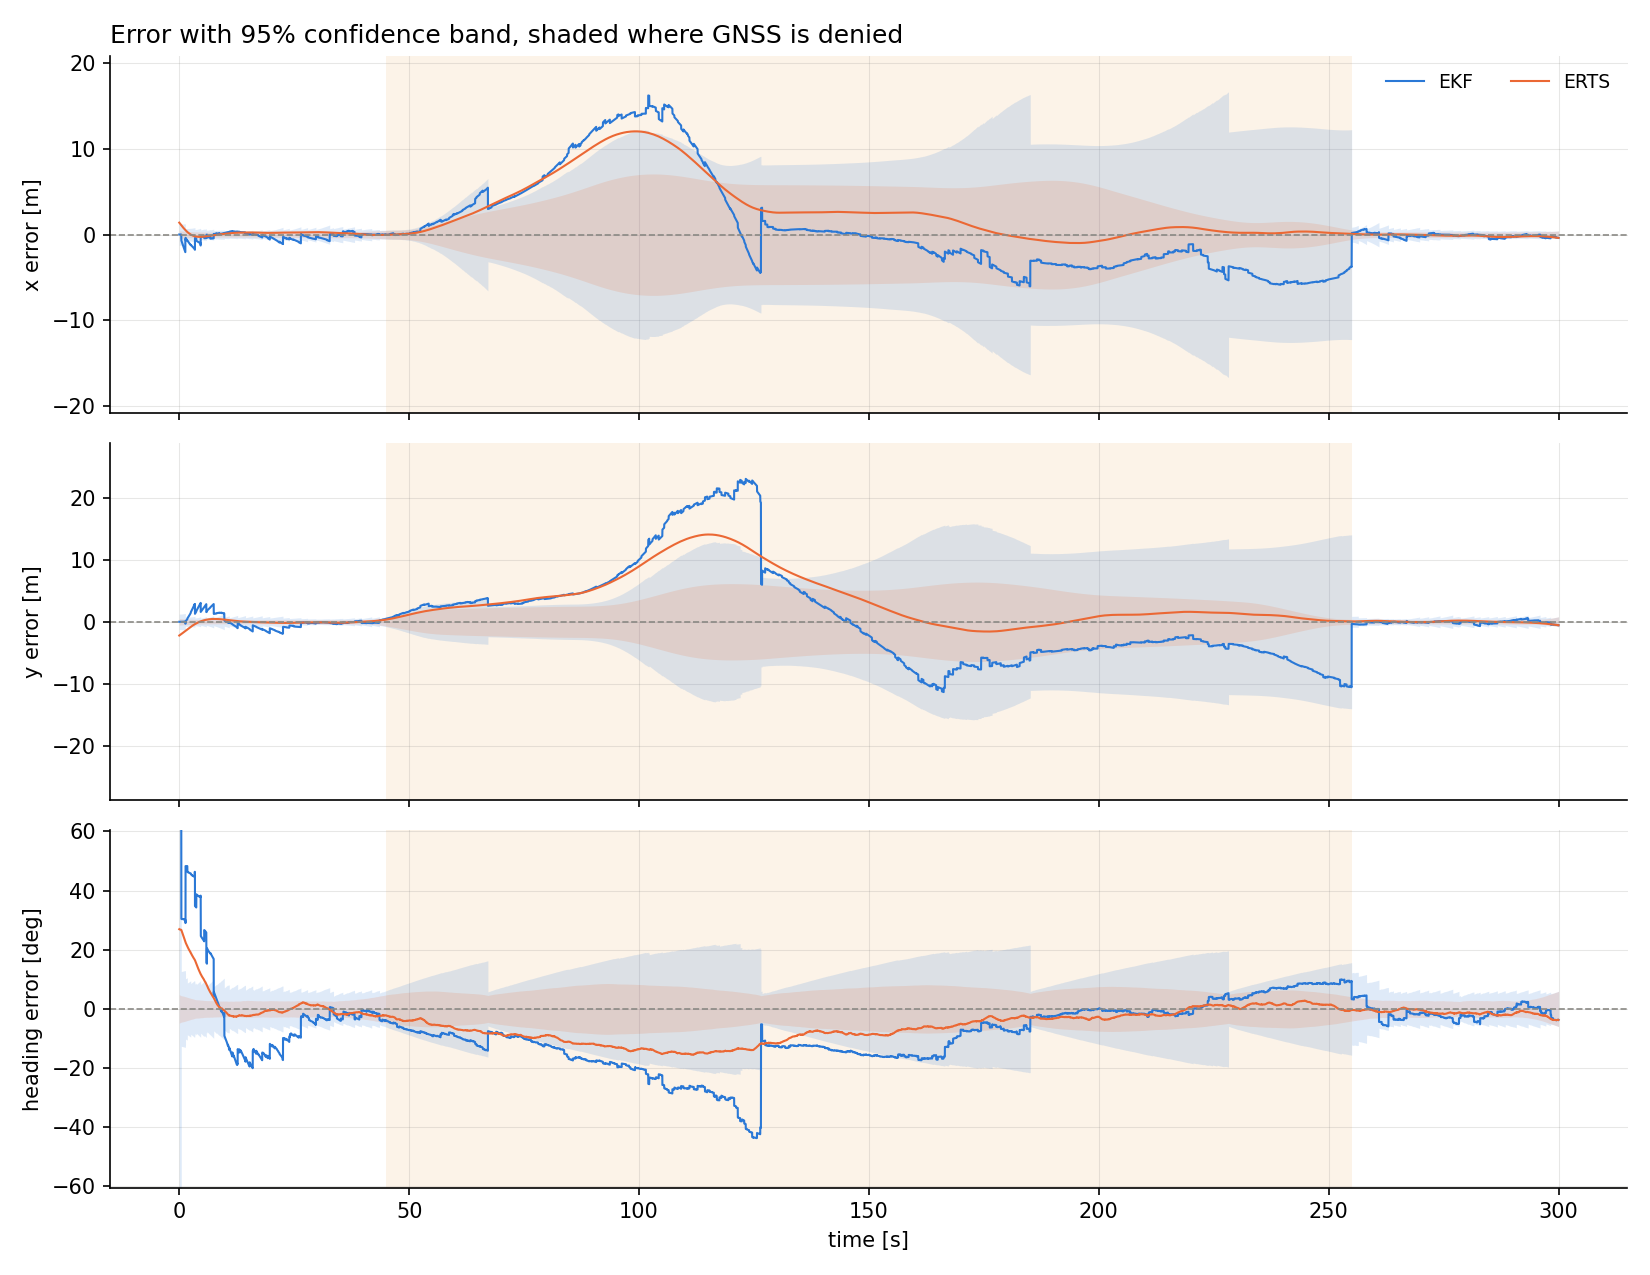
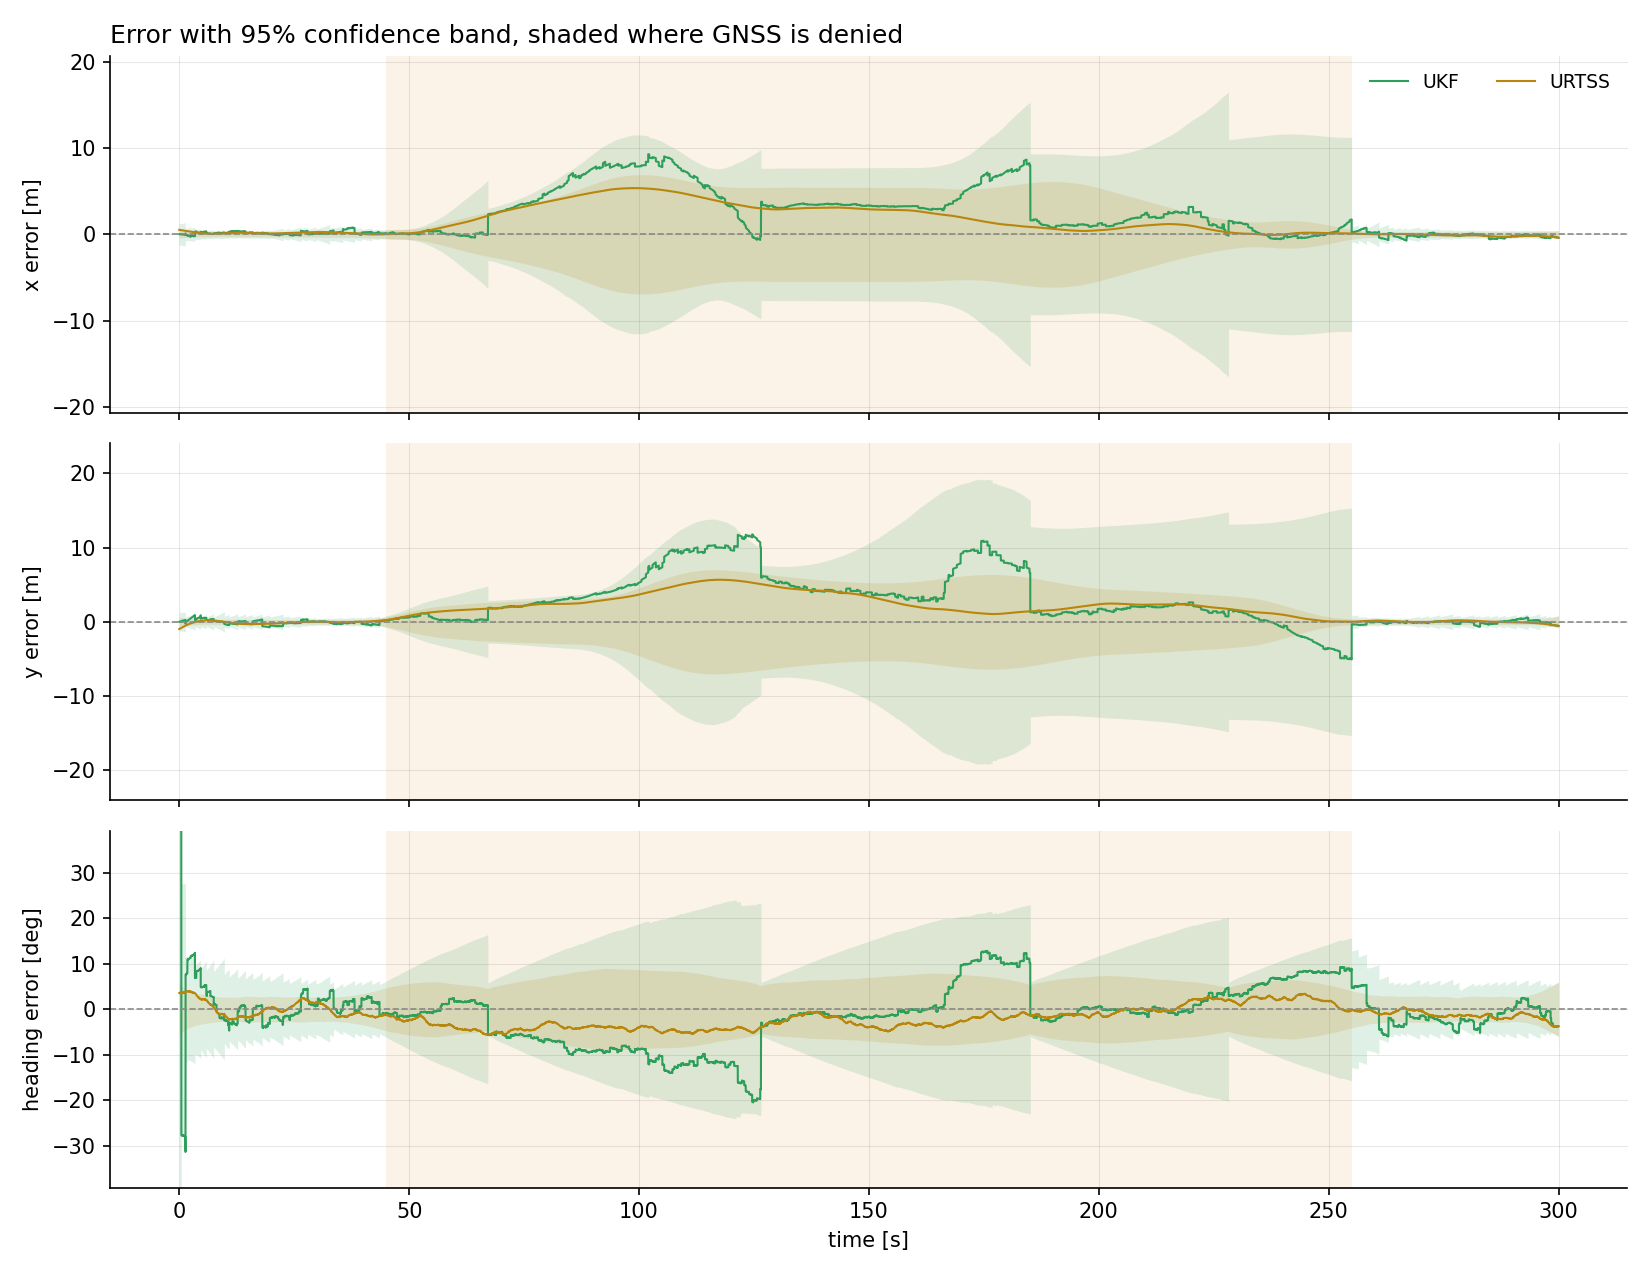
fixed some changes in which figures show up where in the results section

diff --git a/scripts/analyze_ins_2d.py b/scripts/analyze_ins_2d.py
@@ -20,13 +20,16 @@ A statistic that falls above its 95% interval means the errors are larger than
 the reported covariance admits, the estimator is overconfident. Below the
 interval it is underconfident, the covariance is larger than it needs to be.
 
-In the folders of the ukf and iekf experiments the UKF/URTSS and IEKF/ERTS
-results are analysed next to the EKF/ERTS. Those folders get figures 1 to 4
-and two more instead of 5 and 6, since the biases and the consistency are
-compared in the statistics:
+In the folders of the ukf and iekf experiments the UKF/URTSS or IEKF/ERTS
+results are the subject, analysed next to the EKF/ERTS. Those folders get four
+figures about the subject, with the EKF-based estimate drawn wide underneath
+in the path figure so that differences show where they exist. The biases and
+the consistency are compared in the statistics instead:
 
-    5_variants.png        errors, gyro bias and distances of all variants
-    6_errors_variant.png  error figure of the experiment's own variant
+    1_scenario.png   the true path and when each sensor fired
+    2_path.png       path with the subject's estimates and a zoom on its largest error
+    3_errors.png     the subject's error with 95% bands
+    4_variants.png   errors, gyro bias and distances of all variants
 
 State: [x, y, psi, u, v, b_ax, b_ay, b_gyro].
 """
@@ -243,9 +246,17 @@ def choose_turn(turns, error, dt):
     return max(candidates, key=lambda turn: error[turn.first:turn.last + 1].max())
 
 
-def draw_zoom(axis, turn, filt, smooth, x_true, dt):
-    """One turn with a little path before and after, both estimates and their
-    95% position ellipses. Returns the rectangle the zoom covers."""
+def draw_reference(axis, reference, lo, hi, linewidth=3.2):
+    """The EKF-based estimates drawn wide and faint underneath the subject's,
+    so they only show where the two differ."""
+    for estimator in reference:
+        axis.plot(*estimator.x[lo:hi, POSITION].T, color=estimator.color, linewidth=linewidth,
+                  alpha=0.45, label=estimator.name, zorder=2)
+
+
+def draw_zoom(axis, turn, filt, smooth, x_true, dt, reference=None):
+    """One turn with a little path before and after, the subject's estimates
+    and their 95% position ellipses. Returns the rectangle the zoom covers."""
     pad = int(ZOOM_PAD_SECONDS / dt)
     lo, hi = max(turn.first - pad, 0), min(turn.last + pad, len(x_true) - 1) + 1
     extent = [x_true[lo:hi, POSITION]]
@@ -257,10 +268,14 @@ def draw_zoom(axis, turn, filt, smooth, x_true, dt):
             reach = max(width, height) / 2
             extent.append(estimator.x[k, :2] + np.array([[reach, reach], [-reach, -reach]]))
         extent.append(estimator.x[lo:hi, POSITION])
+    for estimator in reference or ():
+        extent.append(estimator.x[lo:hi, POSITION])
     corners = np.vstack(extent)
     low, high = corners.min(axis=0) - 1.0, corners.max(axis=0) + 1.0
 
     axis.plot(*x_true[lo:hi, POSITION].T, color=TRUTH, linewidth=1.8, label="truth", zorder=3)
+    if reference:
+        draw_reference(axis, reference, lo, hi, linewidth=4.0)
     for estimator in (filt, smooth):
         axis.plot(*estimator.x[lo:hi, POSITION].T, color=estimator.color, linewidth=1.4,
                   label=estimator.name, zorder=4)
@@ -280,18 +295,22 @@ def draw_zoom(axis, turn, filt, smooth, x_true, dt):
     return low, high
 
 
-def path_figure(x_true, filt, smooth, turns, dt):
-    """The path with both estimates, and a large zoom on the turn where the
-    filter's position error is largest."""
+def path_figure(x_true, filt, smooth, turns, dt, reference=None):
+    """The path with the subject's estimates, and a large zoom on the turn
+    where the filter's position error is largest. With a reference, the
+    EKF-based estimates are drawn wide underneath."""
     figure = plt.figure(figsize=(14, 7.5))
     grid = figure.add_gridspec(1, 2, width_ratios=[1.1, 1], wspace=0.15)
     overview = figure.add_subplot(grid[0, 0])
     zoom = figure.add_subplot(grid[0, 1])
 
     overview.plot(*x_true[:, POSITION].T, color=TRUTH, linewidth=1.8, label="truth", zorder=3)
+    if reference:
+        draw_reference(overview, reference, 0, len(x_true), linewidth=3.0)
     overview.plot(*filt.x[:, POSITION].T, color=filt.color, linewidth=1.0, label=filt.name, zorder=4)
     overview.plot(*smooth.x[:, POSITION].T, color=smooth.color, linewidth=1.0, label=smooth.name, zorder=4)
-    fit_equal_axes(overview, [x_true[:, POSITION], filt.x[SKIP_STEPS:, POSITION], smooth.x[SKIP_STEPS:, POSITION]])
+    fit_equal_axes(overview, [x_true[:, POSITION], filt.x[SKIP_STEPS:, POSITION], smooth.x[SKIP_STEPS:, POSITION]]
+                   + [e.x[SKIP_STEPS:, POSITION] for e in reference or ()])
     overview.scatter(*x_true[0, POSITION], s=45, color=TRUTH, zorder=6)
     overview.annotate("", xy=x_true[200, POSITION], xytext=x_true[0, POSITION],
                       arrowprops=dict(arrowstyle="-|>", color=TRUTH, lw=1.5), zorder=6)
@@ -306,7 +325,7 @@ def path_figure(x_true, filt, smooth, turns, dt):
     if turn is None:
         zoom.remove()
         return figure
-    low, high = draw_zoom(zoom, turn, filt, smooth, x_true, dt)
+    low, high = draw_zoom(zoom, turn, filt, smooth, x_true, dt, reference)
     overview.add_patch(Rectangle(low, *(high - low), fill=False, edgecolor=BAND,
                                  linewidth=1.2, zorder=1))
     return figure
@@ -645,36 +664,37 @@ def main():
     print(text, end="")
     (case_dir / "stats.txt").write_text(text)
 
-    figures = {
-        "1_scenario.png": scenario_figure(t, x_true, schedule, dt),
-        "2_path.png": path_figure(x_true, ekf, erts, find_turns(x_true, dt), dt),
-        "3_errors.png": errors_figure(t, x_true, ekf, erts, denied),
-        "4_uncertainty.png": uncertainty_figure(t, ekf, erts, denied),
-    }
-    if not with_variants:
+    turns = find_turns(x_true, dt)
+    figures = {"1_scenario.png": scenario_figure(t, x_true, schedule, dt)}
+    if with_variants:
+        focus = VARIANT_FOLDERS[case_dir.parent.name]
+        index = [f.name for f in filters].index(focus)
+        subject_filter, subject_smoother = filters[index], smoothers[index]
+        figures["2_path.png"] = path_figure(x_true, subject_filter, subject_smoother, turns, dt,
+                                            reference=(ekf, erts))
+        figures["3_errors.png"] = errors_figure(t, x_true, subject_filter, subject_smoother, denied)
+        figures["4_variants.png"] = variants_figure(t, x_true, filters, smoothers, denied)
+    else:
+        figures["2_path.png"] = path_figure(x_true, ekf, erts, turns, dt)
+        figures["3_errors.png"] = errors_figure(t, x_true, ekf, erts, denied)
+        figures["4_uncertainty.png"] = uncertainty_figure(t, ekf, erts, denied)
         figures["5_biases.png"] = biases_figure(t, x_true, [ekf, erts], denied)
-    nis = {}
-    for sensor, table in zip(SENSOR_DIMS, fixes):
-        if len(table["timestep"]):
-            nis[sensor] = (table["timestep"].astype(int) * dt, nis_by_filter["EKF"][sensor],
-                           SENSOR_COLORS[sensor])
-    summaries = {}
-    for sensor in nis:
-        result = time_averaged(nis_by_filter["EKF"][sensor], SENSOR_DIMS[sensor])
-        summaries[sensor] = (f"ANIS {result['average']:.3f}, band [{result['low']:.3f}, "
-                             f"{result['high']:.3f}], {result['verdict']}")
-    for estimator in (ekf, erts):
-        result = time_averaged(nees_values[estimator.name], 2)
-        summaries[estimator.name] = f"ANEES {result['average']:.3f} ({result['verdict']})"
-    if not with_variants:
+        nis = {}
+        for sensor, table in zip(SENSOR_DIMS, fixes):
+            if len(table["timestep"]):
+                nis[sensor] = (table["timestep"].astype(int) * dt, nis_by_filter["EKF"][sensor],
+                               SENSOR_COLORS[sensor])
+        summaries = {}
+        for sensor in nis:
+            result = time_averaged(nis_by_filter["EKF"][sensor], SENSOR_DIMS[sensor])
+            summaries[sensor] = (f"ANIS {result['average']:.3f}, band [{result['low']:.3f}, "
+                                 f"{result['high']:.3f}], {result['verdict']}")
+        for estimator in (ekf, erts):
+            result = time_averaged(nees_values[estimator.name], 2)
+            summaries[estimator.name] = f"ANEES {result['average']:.3f} ({result['verdict']})"
         figures["6_consistency.png"] = consistency_figure(
             t, nis, [(ekf.name, ekf.color, nees_values["EKF"]), (erts.name, erts.color, nees_values["ERTS"])],
             summaries)
-    if len(filters) > 1:
-        figures["5_variants.png"] = variants_figure(t, x_true, filters, smoothers, denied)
-        focus = VARIANT_FOLDERS[case_dir.parent.name]
-        index = [f.name for f in filters].index(focus)
-        figures["6_errors_variant.png"] = errors_figure(t, x_true, filters[index], smoothers[index], denied)
 
     for name, figure in figures.items():
         figure.savefig(figures_dir / name, dpi=150)

diff --git a/results/INS2D/ukf/README.md b/results/INS2D/ukf/README.md
@@ -256,7 +256,7 @@ One run writes the EKF/ERTS and the UKF/URTSS files; the UKF files carry the pre
 
 ## Results
 
-The figures per run: the true path and when each sensor fired, the path with the EKF and ERTS estimates and a zoom on the turn with the largest filter error, the EKF/ERTS error, the UKF/URTSS error, and the variants against each other (position error of the filters and smoothers, gyro bias, and the distance of each variant to the EKF-based estimate). In the variants figure the EKF-based estimates are drawn wide and the variants dashed over them, because they lie almost exactly on top of each other.
+The figures per run: the true path and when each sensor fired, the path with the UKF and URTSS estimates and a zoom on the turn where the UKF position error is largest, the UKF and URTSS error with its 95% bands, and the variants against each other (position error of the filters and smoothers, gyro bias, and the distance of each variant to the EKF-based estimate). In the path figure the EKF and ERTS are drawn wide and faint underneath, so they only show where they differ from the UKF. In the variants figure the EKF-based estimates are drawn wide and the variants dashed over them, because they lie almost exactly on top of each other.
 
 ### Outage run
 
@@ -264,13 +264,11 @@ The figures per run: the true path and when each sensor fired, the path with the
 
 ![True path and sensor fixes](outage/figures/1_scenario.png)
 
-![Path and estimates](outage/figures/2_path.png)
+![UKF and URTSS path and estimates](outage/figures/2_path.png)
 
-![EKF and ERTS error](outage/figures/3_errors.png)
+![UKF and URTSS error](outage/figures/3_errors.png)
 
-![UKF and URTSS error](outage/figures/6_errors_variant.png)
-
-![Variants](outage/figures/5_variants.png)
+![Variants](outage/figures/4_variants.png)
 
 | statistic | EKF / ERTS | UKF / URTSS |
 | --- | --- | --- |
@@ -305,13 +303,11 @@ Share of steps with the true position inside the reported 95% ellipse: EKF 97.6%
 
 ![True path and sensor fixes](figure_eight_outage/figures/1_scenario.png)
 
-![Path and estimates](figure_eight_outage/figures/2_path.png)
+![UKF and URTSS path and estimates](figure_eight_outage/figures/2_path.png)
 
-![EKF and ERTS error](figure_eight_outage/figures/3_errors.png)
+![UKF and URTSS error](figure_eight_outage/figures/3_errors.png)
 
-![UKF and URTSS error](figure_eight_outage/figures/6_errors_variant.png)
-
-![Variants](figure_eight_outage/figures/5_variants.png)
+![Variants](figure_eight_outage/figures/4_variants.png)
 
 | statistic | EKF / ERTS | UKF / URTSS |
 | --- | --- | --- |
@@ -348,13 +344,11 @@ Share of steps with the true position inside the reported 95% ellipse: EKF 97.9%
 
 ![True path and sensor fixes](heading_stress/figures/1_scenario.png)
 
-![Path and estimates](heading_stress/figures/2_path.png)
+![UKF and URTSS path and estimates](heading_stress/figures/2_path.png)
 
-![EKF and ERTS error](heading_stress/figures/3_errors.png)
+![UKF and URTSS error](heading_stress/figures/3_errors.png)
 
-![UKF and URTSS error](heading_stress/figures/6_errors_variant.png)
-
-![Variants](heading_stress/figures/5_variants.png)
+![Variants](heading_stress/figures/4_variants.png)
 
 | statistic | EKF / ERTS | UKF / URTSS |
 | --- | --- | --- |
@@ -389,13 +383,11 @@ Share of steps with the true position inside the reported 95% ellipse: EKF 71.0%
 
 ![True path and sensor fixes](figure_eight_heading_stress/figures/1_scenario.png)
 
-![Path and estimates](figure_eight_heading_stress/figures/2_path.png)
+![UKF and URTSS path and estimates](figure_eight_heading_stress/figures/2_path.png)
 
-![EKF and ERTS error](figure_eight_heading_stress/figures/3_errors.png)
+![UKF and URTSS error](figure_eight_heading_stress/figures/3_errors.png)
 
-![UKF and URTSS error](figure_eight_heading_stress/figures/6_errors_variant.png)
-
-![Variants](figure_eight_heading_stress/figures/5_variants.png)
+![Variants](figure_eight_heading_stress/figures/4_variants.png)
 
 | statistic | EKF / ERTS | UKF / URTSS |
 | --- | --- | --- |

diff --git a/results/INS2D/iekf/README.md b/results/INS2D/iekf/README.md
@@ -239,19 +239,17 @@ the innovation and $S$, which is what the NIS is computed from.
 
 ## Results
 
-The figures per run: the true path and when each sensor fired, the path with the EKF and ERTS estimates and a zoom on the turn with the largest filter error, the EKF/ERTS error, the IEKF/ERTS (IEKF) error, and the variants against each other. In the variants figure the EKF-based estimates are drawn wide and the variants dashed over them, because they lie almost exactly on top of each other.
+The figures per run: the true path and when each sensor fired, the path with the IEKF and ERTS (IEKF) estimates and a zoom on the turn where the IEKF position error is largest, the IEKF and ERTS (IEKF) error with its 95% bands, and the variants against each other. In the path figure the EKF and ERTS are drawn wide and faint underneath, so they only show where they differ from the IEKF. In the variants figure the EKF-based estimates are drawn wide and the variants dashed over them, because they lie almost exactly on top of each other.
 
 ### Multi-sensor fusion
 
 ![True path and sensor fixes](multi_sensor_fusion/figures/1_scenario.png)
 
-![Path and estimates](multi_sensor_fusion/figures/2_path.png)
+![IEKF and ERTS (IEKF) path and estimates](multi_sensor_fusion/figures/2_path.png)
 
-![EKF and ERTS error](multi_sensor_fusion/figures/3_errors.png)
+![IEKF and ERTS (IEKF) error](multi_sensor_fusion/figures/3_errors.png)
 
-![IEKF and ERTS (IEKF) error](multi_sensor_fusion/figures/6_errors_variant.png)
-
-![Variants](multi_sensor_fusion/figures/5_variants.png)
+![Variants](multi_sensor_fusion/figures/4_variants.png)
 
 | statistic | EKF / ERTS | UKF / URTSS | IEKF / ERTS (IEKF) |
 | --- | --- | --- | --- |
@@ -289,13 +287,11 @@ The figures per run: the true path and when each sensor fired, the path with the
 
 ![True path and sensor fixes](gnss_outage/figures/1_scenario.png)
 
-![Path and estimates](gnss_outage/figures/2_path.png)
+![IEKF and ERTS (IEKF) path and estimates](gnss_outage/figures/2_path.png)
 
-![EKF and ERTS error](gnss_outage/figures/3_errors.png)
+![IEKF and ERTS (IEKF) error](gnss_outage/figures/3_errors.png)
 
-![IEKF and ERTS (IEKF) error](gnss_outage/figures/6_errors_variant.png)
-
-![Variants](gnss_outage/figures/5_variants.png)
+![Variants](gnss_outage/figures/4_variants.png)
 
 | statistic | EKF / ERTS | UKF / URTSS | IEKF / ERTS (IEKF) |
 | --- | --- | --- | --- |
